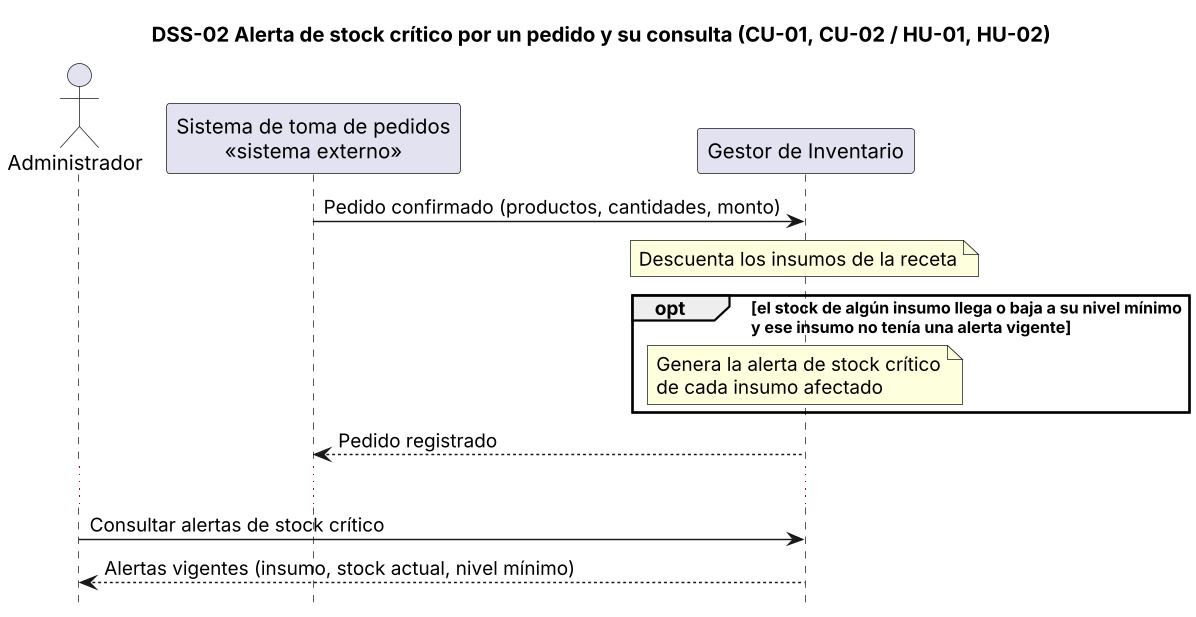
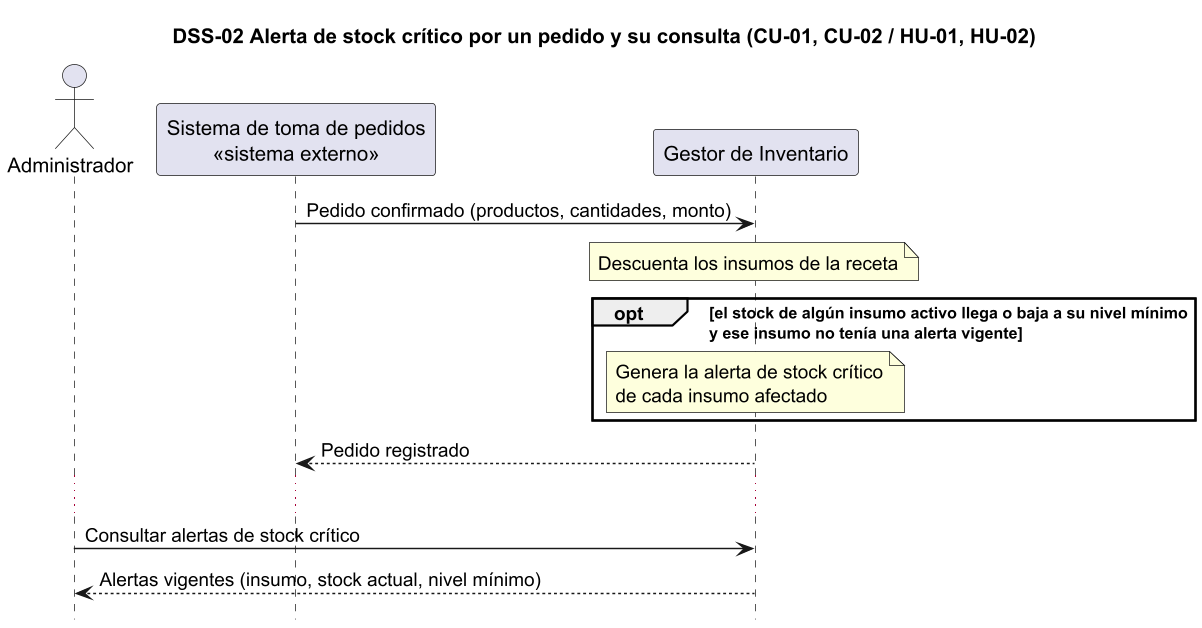
Correcciones de coherencia entre artefactos y diagramas
- TO-BE: pool externo "Sistema de toma de pedidos" con flujos de mensaje
  "Comanda" y "Pedido confirmado"; A01 pasa a "Registrar la comanda en la
  página web" (N06); alerta termina en "Alerta generada".
- Insumos: solo se eliminan sin recetas ni movimientos (HU-06 CA3, EST-01,
  EST-02, DSS-05); insumo desactivado se descuenta sin alerta (HU-01 CA6).
- HU-01 redactada como pedido confirmado; venta sin receta marcada con
  Venta.sinReceta.
- RP-09 incluye HU-02/HU-04 y CU-02/CU-04 en la trazabilidad.
- DSS-05 con desactivación directa; PNG regenerados desde sus fuentes.

diff --git a/12-trazabilidad.md b/12-trazabilidad.md
@@ -14,7 +14,7 @@ Una fila por cada requisito de producto (RP-xx) de [03-requisitos.md](./03-requi
 | RP-06 | [HU-06](./04-historias-usuario.md#hu-06--registrar-insumos-y-recetas) | [CU-06](./09-casos-de-uso.md), [CU-08](./09-casos-de-uso.md) | [DSS-04](./10-diagramas-secuencia.md), [DSS-05](./10-diagramas-secuencia.md) | [EST-01](./11-diagramas-estado.md) | Insumo |
 | RP-07 (derivado de RP-01) | [HU-06](./04-historias-usuario.md#hu-06--registrar-insumos-y-recetas) | [CU-07](./09-casos-de-uso.md) | — | — | Receta, Ingrediente, Producto, Insumo |
 | RP-08 | [HU-01](./04-historias-usuario.md#hu-01--registrar-venta), [HU-05](./04-historias-usuario.md#hu-05--registrar-ingreso-de-stock) | [CU-01](./09-casos-de-uso.md), [CU-05](./09-casos-de-uso.md) | [DSS-01](./10-diagramas-secuencia.md), [DSS-03](./10-diagramas-secuencia.md) | — | MovimientoDeInventario, Descuento, Reposición, Insumo, Pedido |
-| RP-09 | [HU-03](./04-historias-usuario.md#hu-03--consultar-stock), [HU-05](./04-historias-usuario.md#hu-05--registrar-ingreso-de-stock), [HU-06](./04-historias-usuario.md#hu-06--registrar-insumos-y-recetas) | [CU-03](./09-casos-de-uso.md), [CU-05](./09-casos-de-uso.md), [CU-06](./09-casos-de-uso.md), [CU-07](./09-casos-de-uso.md), [CU-08](./09-casos-de-uso.md) | — | — | — |
+| RP-09 | [HU-02](./04-historias-usuario.md#hu-02--alertar-stock-crítico), [HU-03](./04-historias-usuario.md#hu-03--consultar-stock), [HU-04](./04-historias-usuario.md#hu-04--consultar-informe), [HU-05](./04-historias-usuario.md#hu-05--registrar-ingreso-de-stock), [HU-06](./04-historias-usuario.md#hu-06--registrar-insumos-y-recetas) | [CU-02](./09-casos-de-uso.md), [CU-03](./09-casos-de-uso.md), [CU-04](./09-casos-de-uso.md), [CU-05](./09-casos-de-uso.md), [CU-06](./09-casos-de-uso.md), [CU-07](./09-casos-de-uso.md), [CU-08](./09-casos-de-uso.md) | — | — | — |
 | RP-10 | [HU-01](./04-historias-usuario.md#hu-01--registrar-venta) | [CU-01](./09-casos-de-uso.md) | [DSS-01](./10-diagramas-secuencia.md) | — | — |
 | RP-11 | [HU-01](./04-historias-usuario.md#hu-01--registrar-venta), [HU-03](./04-historias-usuario.md#hu-03--consultar-stock) | [CU-01](./09-casos-de-uso.md), [CU-03](./09-casos-de-uso.md) | [DSS-01](./10-diagramas-secuencia.md) | — | — |
 | RP-12 | [HU-05](./04-historias-usuario.md#hu-05--registrar-ingreso-de-stock), [HU-06](./04-historias-usuario.md#hu-06--registrar-insumos-y-recetas) | [CU-05](./09-casos-de-uso.md), [CU-06](./09-casos-de-uso.md), [CU-07](./09-casos-de-uso.md), [CU-08](./09-casos-de-uso.md) | — | — | — |
@@ -30,4 +30,4 @@ Una fila por cada requisito de producto (RP-xx) de [03-requisitos.md](./03-requi
 - **Ningún RY-xx (requisito de proyecto) aparece en esta matriz**: costo, plazo, dotación, entorno de pruebas, migración de datos y capacitación son condiciones del proyecto, no del sistema.
 - **RP-02 incluye CU-01 y DSS-02 cubre HU-01 y HU-02**: la alerta se genera cuando el sistema procesa un pedido (CU-01, HU-01) y el administrador la consulta después (CU-02, HU-02). Por eso DSS-02 se asocia a ambos casos de uso y a ambas historias.
 - **Insumo recién registrado (supuesto)**: HU-06 no pide un stock inicial, así que se asumió que el insumo nace con stock 0 y, por lo tanto, en "Stock crítico" y con su alerta generada (EST-01, EST-02 y DSS-04). Si el equipo prefiere cargar el stock al registrar, hay que cambiar esas tres piezas.
-- **Alerta de un insumo desactivado o eliminado**: queda resuelta (EST-02, DSS-05). Las historias no lo dicen de forma explícita; es una decisión de modelado para que ninguna alerta quede vigente sobre un insumo que ya no se usa.
+- **Alerta de un insumo desactivado o eliminado**: si se desactiva, la alerta queda resuelta (EST-02, DSS-05); solo se puede eliminar un insumo sin recetas ni movimientos, y en ese caso sus alertas se eliminan con él. Las historias no lo dicen de forma explícita; es una decisión de modelado para que ninguna alerta quede vigente sobre un insumo que ya no se usa.

diff --git a/02-rediseno-to-be.md b/02-rediseno-to-be.md
@@ -38,7 +38,7 @@
 ## Diagrama TO-BE
 ![Proceso TO-BE](./diagramas/to-be.png)
 Archivo fuente: [`./diagramas/to-be.bpmn`](./diagramas/to-be.bpmn)
-Las tareas de servicio (ícono de engranaje) las ejecuta el gestor de inventario sin intervención de una persona; las tareas de usuario (ícono de persona) las hace el administrador con apoyo del gestor; las manuales (ícono de mano) no tienen apoyo de ningún sistema. El flujo "Pedido confirmado" representa el pedido que llega al gestor desde el sistema de toma de pedidos (el otro sistema), ya con sus productos, cantidades y el monto de la venta; el gestor no participa en tomar el pedido, solo lo recibe confirmado.
+Las tareas de servicio (ícono de engranaje) las ejecuta el gestor de inventario sin intervención de una persona; las tareas de usuario (ícono de persona) las hace una persona con apoyo de un sistema: el administrador con el gestor, o el personal de caja con la página web de pedidos de la cafetería (el sistema de toma de pedidos); las manuales (ícono de mano) no tienen apoyo de ningún sistema. El flujo de mensaje "Pedido confirmado" sale del pool "Sistema de toma de pedidos" (el sistema de otro equipo, dibujado como caja negra) y llega al evento de inicio que dispara "Descontar insumos y registrar venta", ya con sus productos, cantidades y el monto de la venta; el gestor no participa en tomar el pedido, solo lo recibe confirmado.
 
 ## Actividades que cambian del AS-IS al TO-BE
 | Actividad en el AS-IS | Actividad en el TO-BE | Qué cambia |
@@ -48,5 +48,6 @@ Las tareas de servicio (ícono de engranaje) las ejecuta el gestor de inventario
 | A07 — Contar el inventario a mano; A08 — Anotar el conteo en planilla Excel; A09 — Estimar al ojo cuánto comprar (manual y de usuario, una vez por semana) | N03 — Revisar inventario, ventas y decidir reposición (tarea de usuario) | El stock se consulta en tiempo real y el informe de cierre entrega stock inicial, final, consumo por insumo, qué se vendió y la ganancia del día, así que ya no se cuenta a mano cada semana ni se estima al ojo. |
 | A12 — Guardar los insumos (tarea manual) | N04 — Reabastecer stock (tarea de usuario) | Además de guardar los insumos, el administrador registra el ingreso en el sistema y el stock se actualiza al instante. |
 | (no existe: las recetas están en un cuaderno a mano y se usan en A02 — Preparar el pedido con la receta) | N05 — Registrar insumos y recetas (tarea de usuario) | Actividad nueva: se registran los insumos y la receta de cada producto en el sistema, que es lo que permite el descuento automático. |
+| A01 — Anotar la comanda a mano (tarea manual) | N06 — Registrar la comanda en la página web (tarea de usuario) | La cajera anota los pedidos hechos en el local directamente en la página web de pedidos de la cafetería (el sistema de toma de pedidos, desarrollado en otro curso), desde un celular o tablet y no en papel. No hay kiosco de autoatención: el cliente sigue pidiendo al personal. Así todos los pedidos, web o del local, llegan al gestor como «Pedido confirmado». |
 
-No cambian A01 (anotar la comanda), A02 (preparar el pedido con la receta), A04 (entregar y cobrar), A05 (cuadrar la caja), A10 (buscar dónde comprar más barato) ni A11 (comprar los insumos), que siguen siendo manuales.
+No cambian A02 (preparar el pedido con la receta), A04 (entregar y cobrar), A05 (cuadrar la caja), A10 (buscar dónde comprar más barato) ni A11 (comprar los insumos), que siguen siendo manuales.

diff --git a/11-diagramas-estado.md b/11-diagramas-estado.md
@@ -20,9 +20,11 @@ Archivo fuente: [`./diagramas/est-01.puml`](./diagramas/est-01.puml)
 | Stock crítico | Registrar ingreso | stock resultante > mínimo | resolver alerta | Stock suficiente |
 | Stock suficiente | Desactivar insumo | — | — | Desactivado |
 | Stock crítico | Desactivar insumo | — | resolver alerta | Desactivado |
-| Stock suficiente | Eliminar insumo | no forma parte de ninguna receta | — | (final) |
-| Stock crítico | Eliminar insumo | no forma parte de ninguna receta | resolver alerta | (final) |
-| Desactivado | Eliminar insumo | no forma parte de ninguna receta | — | (final) |
+| Stock suficiente | Eliminar insumo | no forma parte de ninguna receta y no tiene movimientos | — | (final) |
+| Stock crítico | Eliminar insumo | no forma parte de ninguna receta y no tiene movimientos | eliminar alerta | (final) |
+| Desactivado | Eliminar insumo | no forma parte de ninguna receta y no tiene movimientos | — | (final) |
+
+Un insumo Desactivado que sigue en una receta también recibe Descuentos cuando se confirma un pedido, pero permanece en Desactivado y no genera alerta. Como ese evento no cambia su estado, no se dibuja.
 
 Supuesto: HU-06 no pide un stock inicial al registrar un insumo, así que se asume que nace con stock 0, que está en o bajo cualquier nivel mínimo. Por eso nace en "Stock crítico" y con su alerta generada. Si el equipo decide cargar stock al registrar, hay que cambiar la primera fila de esta tabla y la de EST-02.
 
@@ -39,11 +41,11 @@ Archivo fuente: [`./diagramas/est-02.puml`](./diagramas/est-02.puml)
 
 | Estado origen | Evento | Guarda | Acción | Estado destino |
 |---------------|--------|--------|--------|----------------|
-| (inicial) | Pedido confirmado | stock del insumo ≤ mínimo | generar alerta | Vigente |
+| (inicial) | Pedido confirmado | stock del insumo ≤ mínimo y el insumo está activo | generar alerta | Vigente |
 | (inicial) | Registrar insumo | — | generar alerta | Vigente |
 | Vigente | Registrar ingreso | stock del insumo > mínimo | resolver alerta | Resuelta |
 | Vigente | Desactivar insumo | — | resolver alerta | Resuelta |
-| Vigente | Eliminar insumo | — | resolver alerta | Resuelta |
+| Vigente | Eliminar insumo | — | eliminar alerta | (final) |
 | Resuelta | — *(al resolverse, la alerta se archiva; es una transición de finalización y no depende de un mensaje de ningún actor)* | — | archivar alerta | (final) |
 
-Mientras la alerta está "Vigente" aparece en la consulta de alertas (CU-02); cuando pasa a "Resuelta" deja de mostrarse (HU-02, CA4).
+Mientras la alerta está "Vigente" aparece en la consulta de alertas (CU-02); cuando pasa a "Resuelta" deja de mostrarse (HU-02, CA4). «Archivar alerta» no significa borrarla: la alerta deja de mostrarse en la consulta de alertas, pero se conserva como historial del insumo (ver AlertaDeStock en 08-modelo-dominio.md).

diff --git a/04-historias-usuario.md b/04-historias-usuario.md
@@ -2,7 +2,7 @@
 
 ## HU-01 – Registrar venta
 
-Como administrador, quiero registrar una venta y descontar automáticamente los insumos utilizados según la receta de cada producto, para mantener actualizado el stock y conocer las ventas realizadas sin registros manuales.
+Como administrador, quiero que cada pedido confirmado registre la venta y descuente automáticamente los insumos utilizados según la receta de cada producto, para mantener actualizado el stock y conocer las ventas realizadas sin registros manuales.
 
 **Actividad TO-BE:** Descontar insumos y registrar venta
 
@@ -26,7 +26,11 @@ Dado que se ha realizado un descuento de insumos, cuando se actualiza el stock, 
 
 **CA5 – Producto sin receta**
 
-Dado que un producto del pedido no tiene una receta definida, cuando se confirma el pedido, entonces se informa al administrador y no se descuentan los insumos correspondientes a ese producto.
+Dado que un producto del pedido no tiene una receta definida, cuando se confirma el pedido, entonces se registra la venta marcada como sin receta, se informa al administrador y no se descuentan los insumos correspondientes a ese producto.
+
+**CA6 – Insumo desactivado**
+
+Dado que un insumo desactivado todavía forma parte de la receta de un producto del pedido, cuando se confirma el pedido, entonces igualmente se descuenta su stock y se registra el Descuento, pero no se genera una alerta de stock crítico para ese insumo.
 
 ---
 
@@ -44,7 +48,7 @@ Dado que un insumo tiene definido un nivel mínimo, cuando su stock llega o baja
 
 **CA2 – Información de la alerta**
 
-Dado que existe una alerta de stock cuando el administrador la consulta, entonces puede identificar el insumo, su stock actual y su nivel mínimo.
+Dado que existe una alerta de stock, cuando el administrador la consulta, entonces puede identificar el insumo, su stock actual y su nivel mínimo.
 
 **CA3 – Mantener alerta**
 
@@ -160,7 +164,7 @@ Dado que existe un producto, cuando el administrador define su receta, entonces 
 
 **CA3 – Proteger insumos utilizados**
 
-Dado que un insumo forma parte de una receta existente, cuando el administrador intenta eliminarlo, entonces no puede eliminarlo y solo puede desactivarlo.
+Dado que un insumo forma parte de una receta existente o tiene movimientos de inventario registrados, cuando el administrador intenta eliminarlo, entonces no puede eliminarlo y solo puede desactivarlo.
 
 **CA4 – Mantener descuentos anteriores**
 

diff --git a/07-criterios-aceptacion.md b/07-criterios-aceptacion.md
@@ -4,7 +4,7 @@ Escenarios en Gherkin para las seis historias de [04-historias-usuario.md](./04-
 
 ## HU-01 — Registrar venta
 
-Historia: Como administrador, quiero registrar una venta y descontar automáticamente los insumos utilizados según la receta de cada producto, para mantener actualizado el stock y conocer las ventas realizadas sin registros manuales.
+Historia: Como administrador, quiero que cada pedido confirmado registre la venta y descuente automáticamente los insumos utilizados según la receta de cada producto, para mantener actualizado el stock y conocer las ventas realizadas sin registros manuales.
 
 ```gherkin
 Característica: Registrar venta y descontar insumos de un pedido confirmado
@@ -23,7 +23,16 @@ Característica: Registrar venta y descontar insumos de un pedido confirmado
     Y que el stock de leche es de 5000 ml
     Cuando el sistema de toma de pedidos confirma un pedido de 1 Café Latte
     Entonces se informa al administrador que el Café Latte no tiene receta
+    Y queda registrada la venta de 1 Café Latte marcada como sin receta
     Y el stock de leche sigue en 5000 ml
+
+  Escenario: Pedido que usa un insumo desactivado
+    Dado que la vainilla está desactivada y forma parte de la receta de Lemon Empire
+    Y que el nivel mínimo de la vainilla es de 5 cucharaditas y su stock es de 5 cucharaditas
+    Cuando el sistema de toma de pedidos confirma un pedido de 10 Lemon Empire
+    Entonces el stock de vainilla queda en 4 cucharaditas
+    Y queda registrado un Descuento de 1 cucharadita de vainilla
+    Y no se genera una alerta de stock crítico para la vainilla
 ```
 
 ## HU-02 — Alertar stock crítico
@@ -204,6 +213,13 @@ Característica: Registrar insumos y recetas
     Dado que la mantequilla forma parte de la receta de Lemon Empire
     Cuando el administrador intenta eliminar la mantequilla
     Entonces la mantequilla no se elimina
+    Y el administrador solo puede desactivarla
+
+  Escenario: Un insumo con movimientos registrados no se puede eliminar
+    Dado que la canela no forma parte de ninguna receta
+    Y que la canela tiene registrada una Reposición de 500 g
+    Cuando el administrador intenta eliminar la canela
+    Entonces la canela no se elimina
     Y el administrador solo puede desactivarla
 
   Escenario: Desactivar un insumo con alerta vigente

diff --git a/08-modelo-dominio.md b/08-modelo-dominio.md
@@ -15,7 +15,7 @@ Archivo fuente: [`./diagramas/modelo-dominio.puml`](./diagramas/modelo-dominio.p
 | Receta | La composición de un producto: qué insumos y en qué cantidad lleva. | rendimiento |
 | Ingrediente | La cantidad de un insumo específico que una receta necesita (una línea de la receta). | cantidad |
 | Pedido | Un pedido confirmado que llega desde el sistema de toma de pedidos, con sus productos y el monto a cobrar. | número, fechaHora, montoTotal |
-| Venta | La venta de un producto dentro de un pedido: cuántas unidades y por cuánto monto. | cantidad, monto |
+| Venta | La venta de un producto dentro de un pedido: cuántas unidades, por cuánto monto y si se descontaron sus insumos. | cantidad, monto, sinReceta |
 | MovimientoDeInventario *(abstracta)* | Un cambio en el stock de un insumo. Da la trazabilidad entre ventas y consumo que pide RP-08. | fecha, cantidad |
 | Descuento | Movimiento que resta stock porque un pedido consumió insumos según la receta. | — |
 | Reposición | Movimiento que suma stock porque el administrador registró la compra de un insumo. | responsable |
@@ -43,3 +43,4 @@ Archivo fuente: [`./diagramas/modelo-dominio.puml`](./diagramas/modelo-dominio.p
 - **Herencia** solo en `MovimientoDeInventario` (con `Descuento` y `Reposición`), porque son los dos tipos de movimiento que pide RP-08 y se diferencian en su origen (pedido o administrador).
 - **`AlertaDeStock` es una clase propia y no un atributo de `Insumo`**, porque una misma alerta tiene fecha y ciclo de vida (vigente o resuelta) y un insumo puede tener varias a lo largo del tiempo.
 - **Las recetas no se versionan.** Cuando una receta cambia, el cambio vale para los pedidos siguientes y los descuentos ya registrados no se modifican (HU-06, CA4), porque cada `Descuento` guarda su propia cantidad.
+- **Solo se elimina un insumo sin historia.** Un insumo que está en una receta o que ya tiene movimientos de inventario solo se puede desactivar, para no perder la trazabilidad de RP-08. Si un insumo sin movimientos se elimina, sus alertas se eliminan con él.

diff --git a/03-requisitos.md b/03-requisitos.md
@@ -11,7 +11,7 @@
 | RP-06 | El sistema debe permitir al administrador registrar, editar y desactivar insumos, con su unidad de medida, su costo unitario y su stock mínimo. | Funcional | Registrar insumos y recetas |
 | RP-07 (derivado de RP-01) | El sistema debe permitir al administrador definir y modificar la receta de cada producto (insumos y cantidades). | Funcional | Registrar insumos y recetas |
 | RP-08 | El sistema debe registrar cada movimiento de inventario (descuento por pedido, reposición) con su fecha, cantidad y el pedido o usuario asociado, para dar trazabilidad entre ventas y consumo de insumos. | Funcional | Descontar insumos y registrar venta; Reabastecer stock |
-| RP-09 | El sistema debe permitir el acceso al módulo de inventario únicamente a usuarios con rol de administrador. | Funcional (política de acceso) | Revisar inventario, ventas y decidir reposición; Reabastecer stock; Registrar insumos y recetas |
+| RP-09 | El sistema debe permitir el acceso al módulo de inventario únicamente a usuarios con rol de administrador. | Funcional (política de acceso) | Alertar stock crítico; Revisar inventario, ventas y decidir reposición; Reabastecer stock; Registrar insumos y recetas |
 | RP-10 | El sistema debe mantener una disponibilidad de al menos 99,9 % durante el horario de atención del local. | No funcional (Restricción de calidad de servicio — fiabilidad) | Descontar insumos y registrar venta |
 | RP-11 | El sistema debe responder en 1 segundo o menos en al menos el 95 % de las operaciones de descuento y de consulta de stock. | No funcional (Restricción de calidad de servicio — tiempo de respuesta) | Descontar insumos y registrar venta; Revisar inventario, ventas y decidir reposición |
 | RP-12 | La interfaz debe ser simple para un administrador sin experiencia técnica: debe poder registrar una reposición y una receta sin ayuda externa. | No funcional (Capacidad de interacción) | Reabastecer stock; Registrar insumos y recetas |

diff --git a/10-diagramas-secuencia.md b/10-diagramas-secuencia.md
@@ -27,7 +27,7 @@ Variantes representadas:
 Archivo fuente: [`./diagramas/dss-02.puml`](./diagramas/dss-02.puml)
 
 Variantes representadas:
-- **opt** — la alerta se genera solo si el stock de algún insumo llega o baja a su nivel mínimo y ese insumo no tenía ya una alerta vigente.
+- **opt** — la alerta se genera solo si el stock de algún insumo activo llega o baja a su nivel mínimo y ese insumo no tenía ya una alerta vigente.
 - La segunda parte del diagrama (después de la línea punteada) muestra al administrador consultando más tarde las alertas vigentes (CU-02).
 
 ## DSS-03 — Registrar el ingreso de un insumo comprado
@@ -68,5 +68,6 @@ Variantes representadas:
 Archivo fuente: [`./diagramas/dss-05.puml`](./diagramas/dss-05.puml)
 
 Variantes representadas:
-- **alt** — el insumo no forma parte de ninguna receta y se elimina, o forma parte de una receta y la eliminación se rechaza.
+- **alt** externo — el administrador elige eliminar el insumo o desactivarlo directamente (RP-06).
+- **alt** interno, al eliminar — el insumo no está en ninguna receta ni tiene movimientos y se elimina junto con sus alertas, o la eliminación se rechaza.
 - **opt**, dentro del rechazo — el administrador decide desactivar el insumo en vez de eliminarlo.

diff --git a/09-casos-de-uso.md b/09-casos-de-uso.md
@@ -5,7 +5,7 @@
 | Actor | Tipo (humano / sistema externo) | Descripción |
 |-------|----------------------------------|-------------|
 | Administrador | Humano | El dueño de Brookies Coffee (o quien tenga ese rol). Revisa el stock y las alertas, registra reposiciones, insumos y recetas, y consulta informes (RP-09: es el único rol con acceso al sistema). |
-| Sistema de toma de pedidos | Sistema externo | El sistema del otro equipo que toma el pedido del cliente y lo envía ya confirmado, con sus productos, cantidades y el monto de la venta (ver [02-rediseno-to-be.md](./02-rediseno-to-be.md), flujo "Pedido confirmado"). El gestor de inventario no participa en tomar el pedido. |
+| Sistema de toma de pedidos | Sistema externo | La página web de pedidos de la cafetería, desarrollada en otro curso. Toma los pedidos hechos por la web y los que la cajera registra en el local, y los envía ya confirmados, con sus productos, cantidades y el monto de la venta (ver [02-rediseno-to-be.md](./02-rediseno-to-be.md), flujo "Pedido confirmado"). El gestor de inventario no participa en tomar el pedido. |
 
 ## Diagrama de casos de uso
 

diff --git a/05-elicitacion.md b/05-elicitacion.md
@@ -71,7 +71,7 @@
   - Las recetas de bebidas sí indican la cantidad exacta por unidad vendida, incluido el Cold Brew (rendimiento de 1 taza confirmado por el dueño), a diferencia de las masas de galletas, que no indican rendimiento por unidad sino por tanda.
   - El negocio aún no abre y las recetas siguen en proceso de prueba y ajuste (ver 05, técnica 1, hallazgo "Cómo se hace hoy"); se asume que cualquier receta puede seguir cambiando hasta la apertura, así que no se le preguntó al dueño cuál específicamente cambiaría.
 
-  - Estos hallazgos respaldan los requisitos RP-01, RP-06 y RP-07 y las tablas Receta e Insumo del modelo de datos.
+  - Estos hallazgos respaldan los requisitos RP-01, RP-06 y RP-07 y las clases Receta e Insumo del modelo de dominio.
 
 | Insumos y cantidades relevantes | Requisito o dato del modelo que respalda |
 |---------------------------------|-------------------------------------------|
